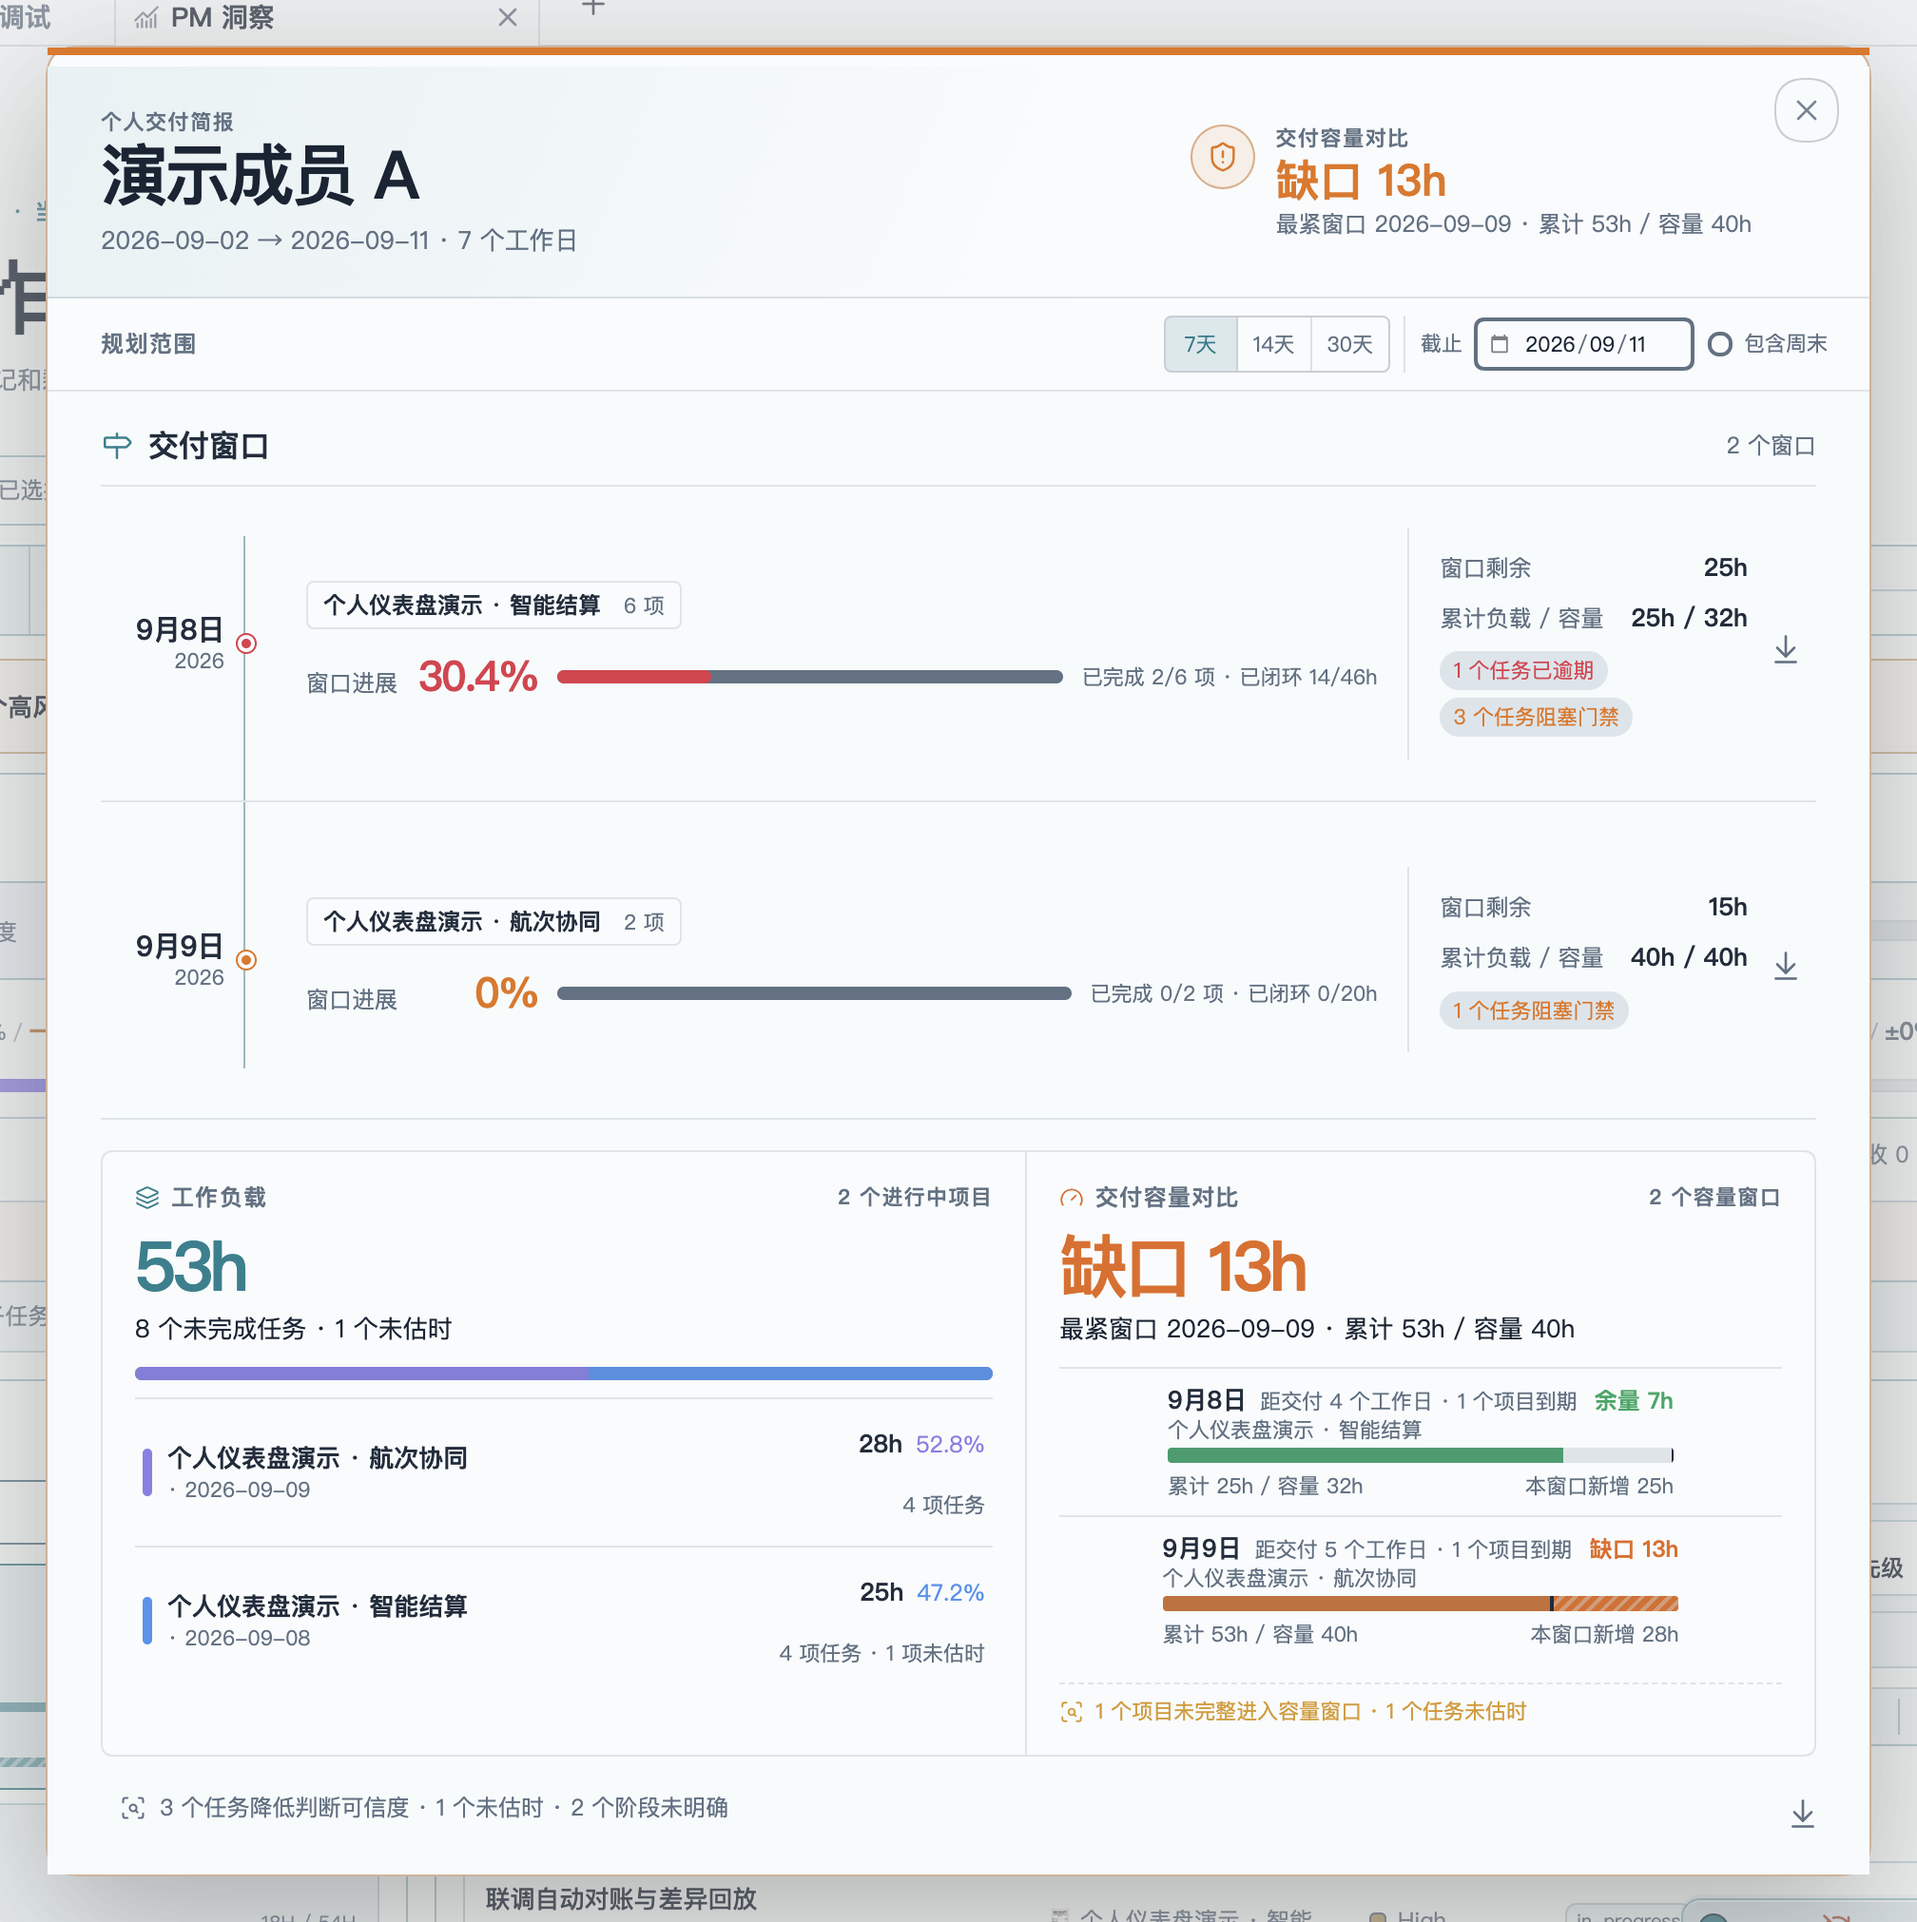
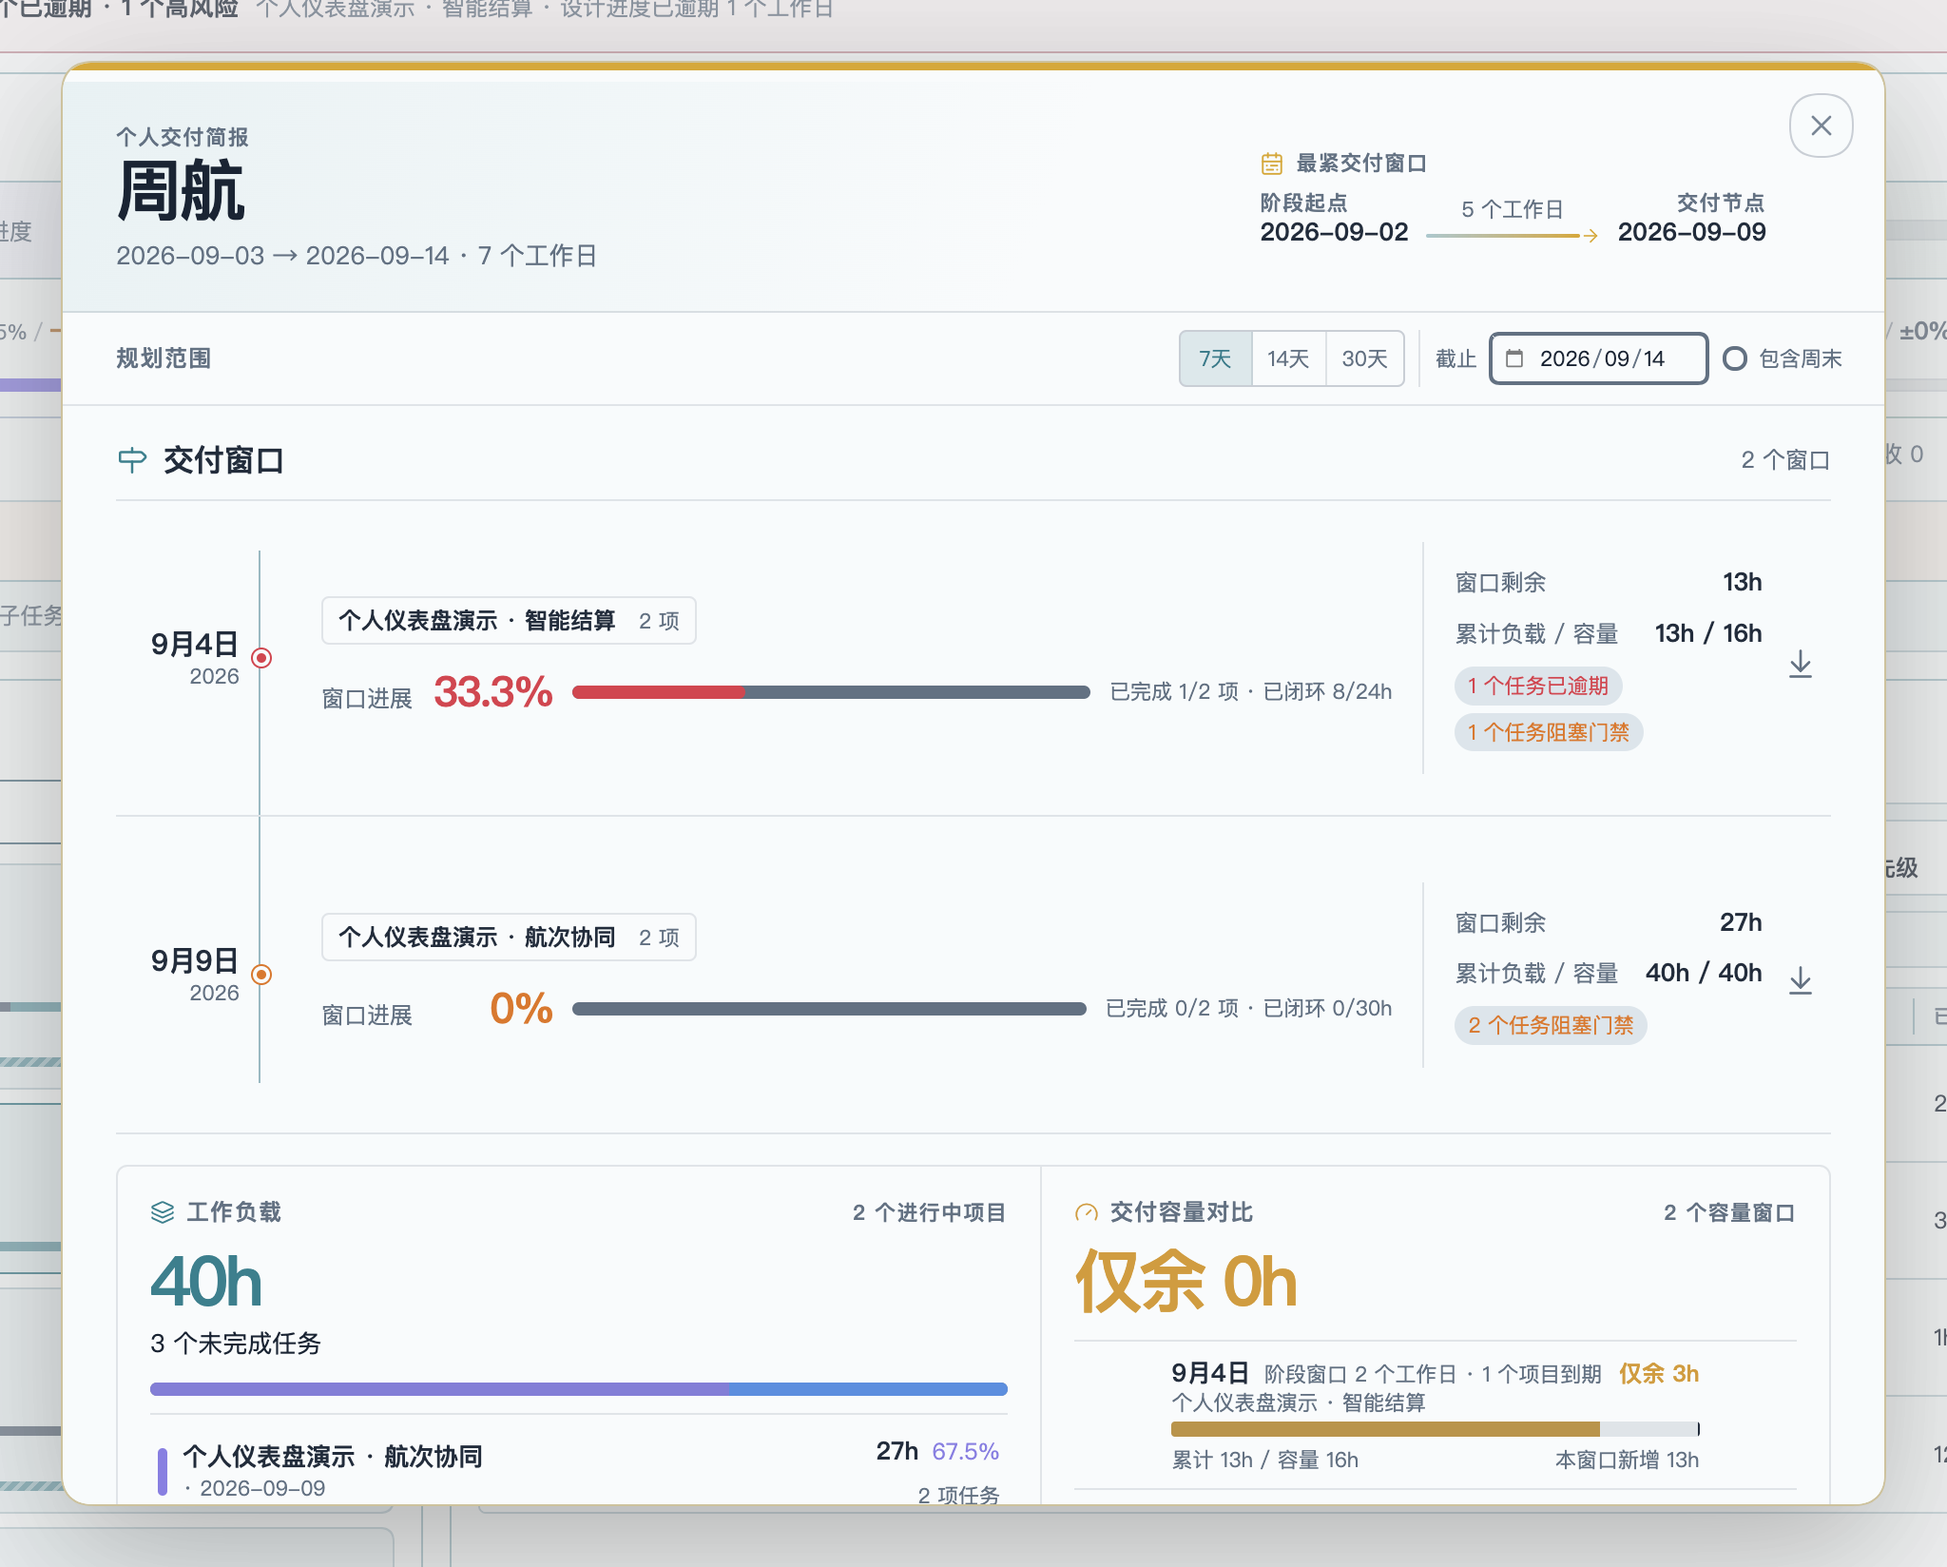
chore(release): 发布 0.5.5
更新个人交付简报的中英文说明与虚构数据截图，补充阶段容量窗口修正和界面信息去重的双语发布说明。

同步插件清单、包版本与最低 Obsidian 版本映射。

diff --git a/docs/releases/0.5.5.md b/docs/releases/0.5.5.md
@@ -1,0 +1,29 @@
+# Project Manager Insights 0.5.5
+
+[简体中文](./0.5.5.zh-CN.md)
+
+Project Manager Insights 0.5.5 makes the personal delivery brief's capacity window match the stage interval it represents and clarifies the visual roles of its summary areas.
+
+## Highlights
+
+- Calculate each delivery checkpoint's available capacity from the previous configured stage gate to the current delivery gate. The personal brief no longer substitutes today's planning-range boundary for the start of that stage interval.
+- Carry the resolved stage-window start through member commitments, delivery windows, and cumulative capacity checkpoints so every surface reports the same date range and workday count.
+- Present the tightest interval in the masthead as an explicit **stage start → workdays → delivery gate** route.
+- Keep the buffer or shortfall conclusion in the dedicated **Delivery capacity** card, removing the duplicate capacity result from the masthead while preserving the project-level checkpoint detail below.
+- Refresh the English and Simplified Chinese README screenshots with fictional demo projects and members, and document the revised capacity semantics.
+
+## Capacity-window rules
+
+- The delivery date still comes from the farthest mapped delivery stage covered by the member's project work.
+- Capacity now begins at the previous configured stage gate and ends at that resolved delivery gate.
+- Earlier project commitments continue to consume capacity before later commitments in cumulative comparisons.
+- The 7-, 14-, or 30-day planning range only controls which delivery windows appear; it does not redefine a stage window's start or change project workload membership.
+- Missing estimates and unresolved stages remain visible as planning-confidence gaps instead of being converted into invented dates or hours.
+
+## Verification
+
+- TypeScript checking, Obsidian ESLint rules, official-review regression checks, automated tests, and the production build pass.
+- Regression coverage includes a four-workday stage interval and verifies that delivery-window and capacity-card figures use the same boundary.
+- The `dev-test` Vault was used to verify the installed plugin, bilingual personal-brief rendering, explicit stage routes, and the single capacity-comparison presentation with fictional data.
+
+**Full Changelog:** [0.5.4...0.5.5](https://github.com/CoffeeCheese/obsidian-pm-insights/compare/0.5.4...0.5.5)

diff --git a/docs/releases/0.5.5.zh-CN.md b/docs/releases/0.5.5.zh-CN.md
@@ -1,0 +1,29 @@
+# Project Manager Insights 0.5.5
+
+[English](./0.5.5.md)
+
+Project Manager Insights 0.5.5 让个人交付简报中的容量窗口与实际表达的阶段区间保持一致，并重新明确顶部摘要与容量卡片各自承担的信息职责。
+
+## 功能亮点
+
+- 每个交付节点的可用容量改为从“上一个已配置阶段门禁”计算到“当前交付门禁”，不再错误地使用今天或规划范围起点作为阶段窗口起点。
+- 将解析出的阶段窗口起点贯穿成员交付承诺、交付窗口与累计容量节点，确保各区域展示相同的日期范围和工作日数。
+- 顶部把最紧区间明确呈现为**阶段起点 → 工作日数 → 交付节点**的可视路线。
+- 余量或缺口结论只保留在独立的**交付容量对比**卡片中，移除顶部重复的容量结论，同时保留下方按项目展开的容量节点明细。
+- 使用完全虚构的演示项目与成员重新生成中英文 README 截图，并同步说明修正后的容量统计口径。
+
+## 容量窗口口径
+
+- 交付日期仍由成员在该项目中覆盖的最远交付阶段决定。
+- 容量窗口从上一个已配置阶段门禁开始，到解析出的当前交付门禁结束。
+- 较早项目的承诺仍会先占用容量，再进入后续项目的累计对比。
+- 7、14、30 天规划范围只控制时间轴展示哪些交付窗口，不会重新定义阶段窗口起点，也不会改变项目工作负载的任务范围。
+- 未估时与阶段无法解析的工作继续作为计划置信缺口展示，不会被转换成虚构的日期或工时。
+
+## 验证
+
+- TypeScript 类型检查、Obsidian ESLint 规则、官方审核回归检查、自动化测试和生产构建通过。
+- 回归测试覆盖四个工作日的阶段区间，并验证交付窗口与容量卡片使用相同的边界。
+- 已在 `dev-test` Vault 验证安装后的插件、中英文个人简报、明确的阶段路线，以及使用虚构数据时只出现一次的容量对比。
+
+**完整变更记录：** [0.5.4...0.5.5](https://github.com/CoffeeCheese/obsidian-pm-insights/compare/0.5.4...0.5.5)

diff --git a/README.md b/README.md
@@ -201,11 +201,11 @@ Choose a member from the team overview to inspect personal and shared tasks sepa
 
 #### Open a focused personal dashboard
 
-After selecting a member, use the gauge button beside their name to open a centered **Personal delivery brief**. The modal concentrates on one decision: can this person's current project workload fit into the working capacity available before each project delivery date?
+After selecting a member, use the gauge button beside their name to open a centered **Personal delivery brief**. The modal concentrates on one decision: can this person's current project workload fit into the working capacity available before each project delivery date? Its masthead calls out the tightest interval as **stage start → workdays → delivery gate**, while the dedicated capacity card owns the buffer or shortfall conclusion.
 
-![Personal delivery brief using fictional README data, showing delivery windows, project-level workload, and cumulative delivery-capacity shortfalls](docs/assets/pm-insights-member-dashboard-focused.png)
+![Personal delivery brief using fictional README data, with an explicit stage-start-to-delivery-gate route, delivery windows, project workload, and one capacity comparison](docs/assets/pm-insights-member-dashboard-focused.png)
 
-*The screenshot uses fictional README demo projects and members only. On each capacity rail, the marker shows the available-capacity limit and the striped segment shows work that no longer fits before that delivery date.*
+*The screenshot uses fictional README demo projects and members only. The masthead identifies the tightest stage interval without repeating the capacity result; the capacity card below owns the load comparison. On its rail, the marker shows the available-capacity limit and the striped segment shows work that no longer fits before the delivery gate.*
 
 | View | What it explains |
 | --- | --- |

diff --git a/README.zh-CN.md b/README.zh-CN.md
@@ -201,11 +201,11 @@ Project Manager 项目
 
 #### 打开聚焦的个人仪表盘
 
-选择成员后，点击姓名旁的仪表按钮即可打开居中的**个人交付简报**。这个弹窗聚焦一个关键判断：这个人当前承担的项目工作，能否在各项目交付日前装入剩余工时容量？
+选择成员后，点击姓名旁的仪表按钮即可打开居中的**个人交付简报**。这个弹窗聚焦一个关键判断：这个人当前承担的项目工作，能否在各项目交付日前装入剩余工时容量？顶部会把最紧窗口明确表达为**阶段起点 → 工作日数 → 交付节点**，余量或缺口结论则只在下方独立的交付容量卡片中呈现。
 
-![使用中文虚构测试数据的个人交付简报，展示交付窗口、项目工作负载和逐项目累计的交付容量缺口](docs/assets/pm-insights-member-dashboard-focused.zh-CN.png)
+![使用中文虚构测试数据的个人交付简报，展示阶段起点到交付节点的清晰路线、交付窗口、项目工作负载和唯一的交付容量对比](docs/assets/pm-insights-member-dashboard-focused.zh-CN.png)
 
-*截图仅使用“个人仪表盘演示”虚构项目与模拟成员。容量轨道上的刻度表示可用容量上限，斜纹段表示交付日前无法装下的超载工时。*
+*截图仅使用“个人仪表盘演示”虚构项目与模拟成员。顶部只负责说明最紧阶段区间，不重复容量结论；下方交付容量卡片负责负载比对，其中刻度表示可用容量上限，斜纹段表示交付节点前无法装下的超载工时。*
 
 个人交付简报由三组互相关联的信息组成：
 
